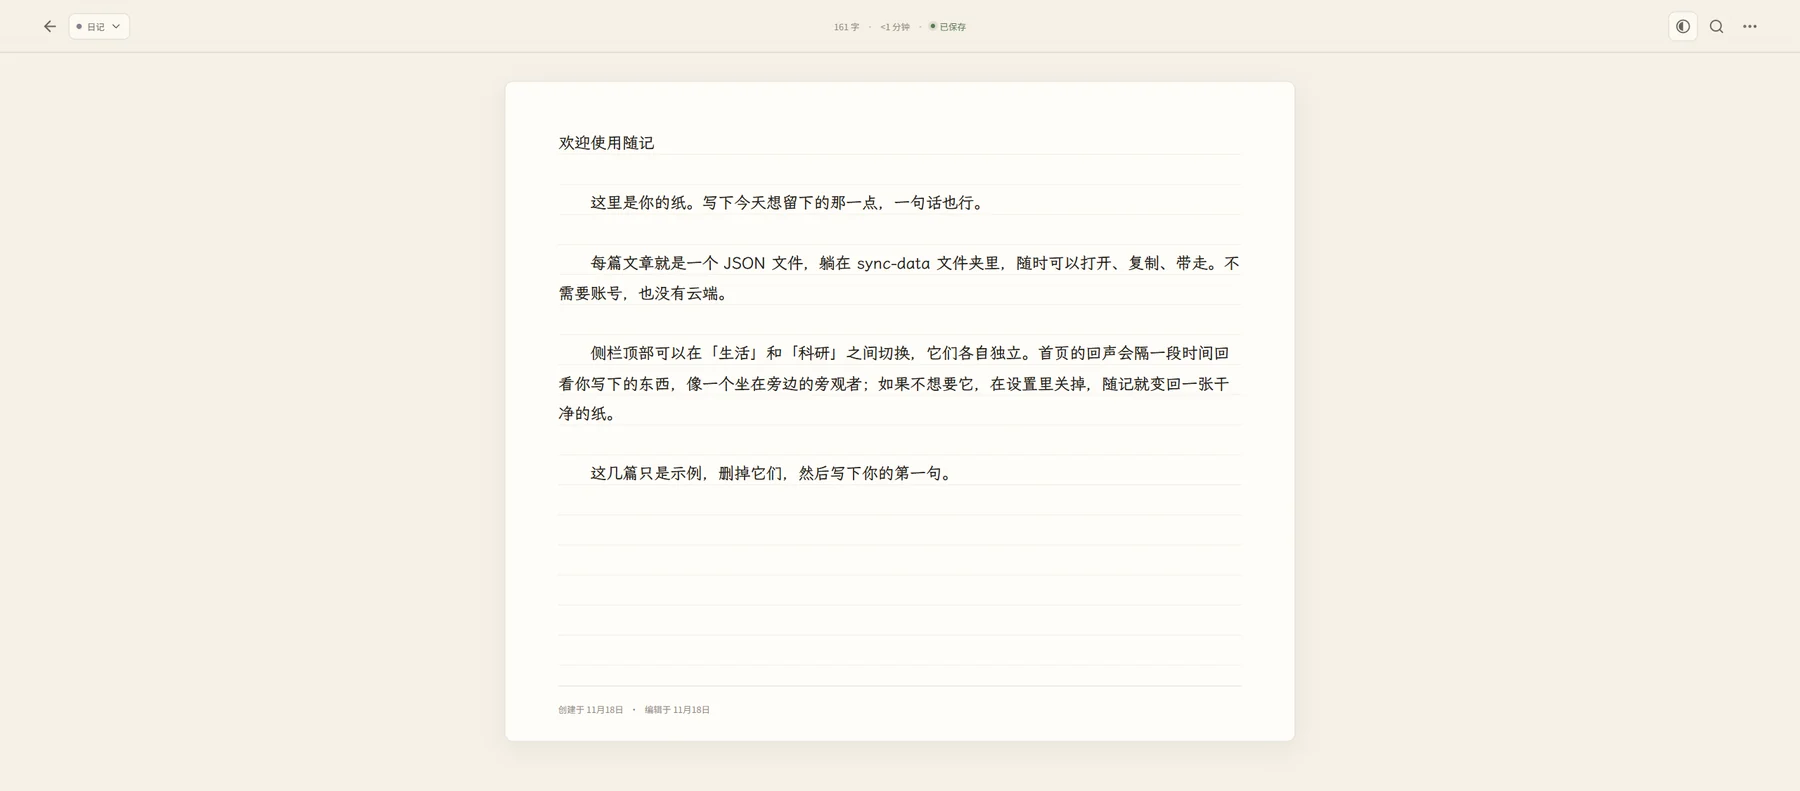
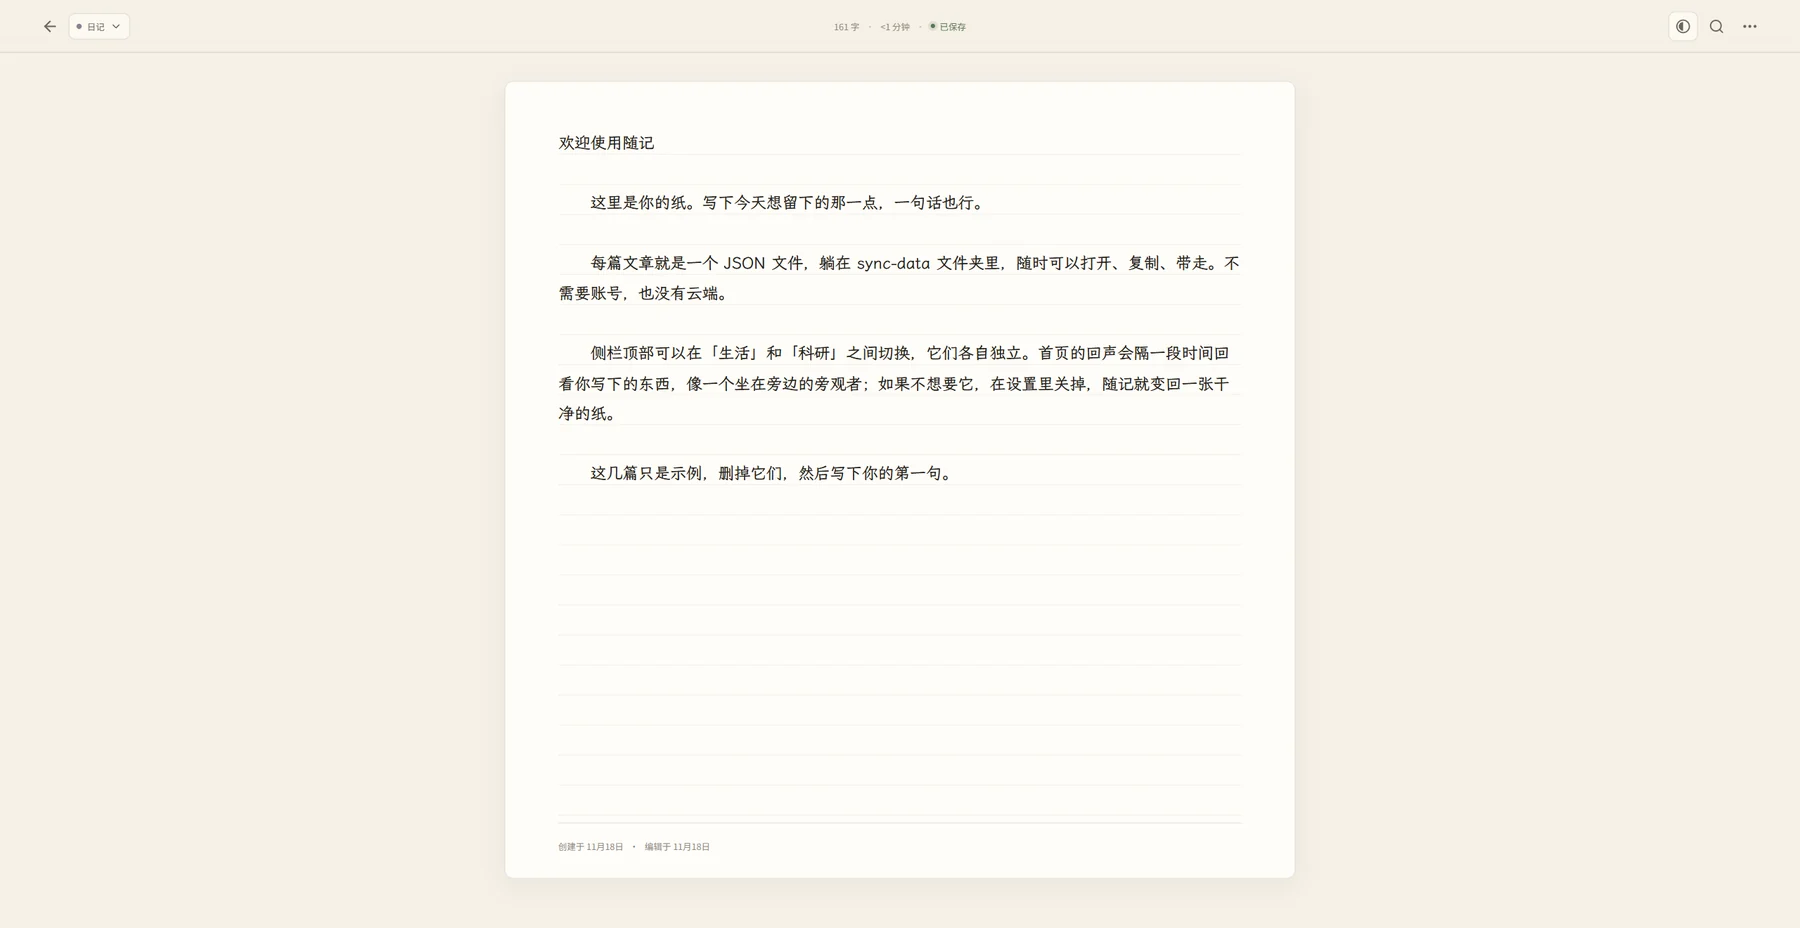
docs: 重拍展示图（2048x1056 视口），版面恢复原始设计

Changed region(s): [[0.3111, 0.1214, 0.6844, 0.5461], [0.3111, 0.5765, 0.5289, 0.6068], [0.3111, 0.8799, 0.4044, 0.9406]]

diff --git a/app/src/styles.css b/app/src/styles.css
@@ -3133,25 +3133,6 @@ html[data-motion="off"] .space-switch button { transition: none; }
   margin: 0 0 30px;
 }
 .home-page.plain-home .stats-panel { flex: 0 0 auto; }
-.home-page.plain-home .recap-footer-row { margin-bottom: 0; }
 .plain-notes { margin-top: 4px; }
 .plain-notes .notes-page-heading { margin-bottom: 16px; }
 .plain-notes .note-list { padding-bottom: 8px; }
-
-/* 回声卡片：间距随视口伸缩但有上限，引句贴底 */
-.ai-review-body-compact { justify-content: flex-start; }
-.ai-review-body-compact .ai-essence p { margin-bottom: 0; }
-.ai-review-body-compact .ai-short-overview { margin-top: clamp(14px, 3.2vh, 34px); }
-.ai-review-body-compact .ai-compact-grid { margin-top: clamp(20px, 5vh, 58px); }
-.ai-review-body-compact .ai-quote-compact { margin-top: auto; padding-top: 0; }
-/* 回声卡片按内容高度排列，底部留白交给版面而不是卡片内部 */
-.ai-review-panel { flex: 0 0 auto; }
-.ai-review-body-compact { flex: 0 0 auto; display: block; }
-.ai-review-body-compact .ai-quote-compact { margin-top: clamp(18px, 4vh, 46px); padding-top: 0; }
-.home-dashboard-section .page-down-hint { margin-top: auto; }
-/* 首屏按内容高度收尾，让下一屏露出一角作为提示 */
-.home-page:not(.plain-home) .home-dashboard-section {
-  height: auto;
-  min-height: 0;
-  overflow: visible;
-}
